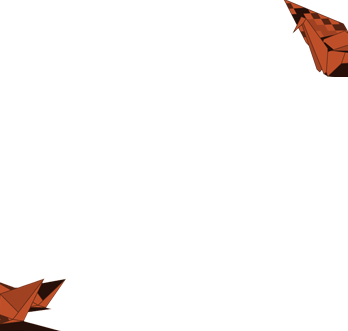
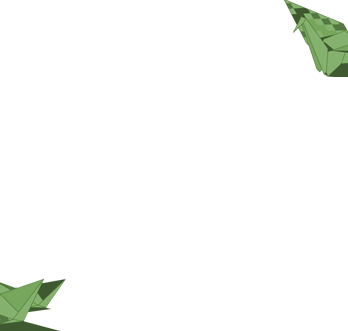
Changed all color pallete
+Changed all color pallete under reviewer's request

Changed region(s): [[0.8046, 0.0, 1.0, 0.2417], [0.0, 0.8459, 0.2011, 1.0]]

diff --git a/styles.css b/styles.css
@@ -57,7 +57,7 @@ a:link {
 }
 
 #profile {
-  color: #d92424;
+  color: #36b37e;
   margin-top: 0;
 }
 
@@ -98,6 +98,12 @@ a:link {
   padding: 1vw;
   margin: 0 auto;
   width: 1.5vw;
+}
+
+#works {
+  display: grid;
+  grid-template-columns: auto;
+  grid-template-rows: auto auto auto;
 }
 
 #w-title {
@@ -161,7 +167,7 @@ a:link {
 }
 
 .grid-button {
-  background-color: #d92424;
+  background-color: #36b37e;
   color: #fff;
   padding: 0.7vw;
   border-radius: 4px;
@@ -241,7 +247,7 @@ a:link {
   padding: 0.7vw 0.9vw;
   border-radius: 8px;
   background-color: #fff;
-  color: #d92424;
+  color: #36b37e;
   font-size: 75%;
   font-weight: 600;
   margin: 1% 0%;
@@ -380,7 +386,7 @@ textarea::placeholder {
     position: absolute;
     top: 0;
     left: 0;
-    background-color: #d92424;
+    background-color: #36b37e;
   }
 
   .ham-top {
@@ -395,6 +401,10 @@ textarea::placeholder {
   .ham-botom {
     top: 13px;
     bottom: 0;
+  }
+
+  #works {
+    display: grid;
   }
 
   #w-title {
@@ -412,7 +422,7 @@ textarea::placeholder {
     border-radius: 10px;
     height: 0.8vw;
     display: flex;
-    background-color: #d92424;
+    background-color: #36b37e;
     margin: 0 auto;
     margin-bottom: 10vw;
   }
@@ -469,7 +479,7 @@ textarea::placeholder {
   }
 
   .grid-button {
-    background-color: #d92424;
+    background-color: #36b37e;
     color: #fff;
     width: 30vw;
     height: 10vw;
